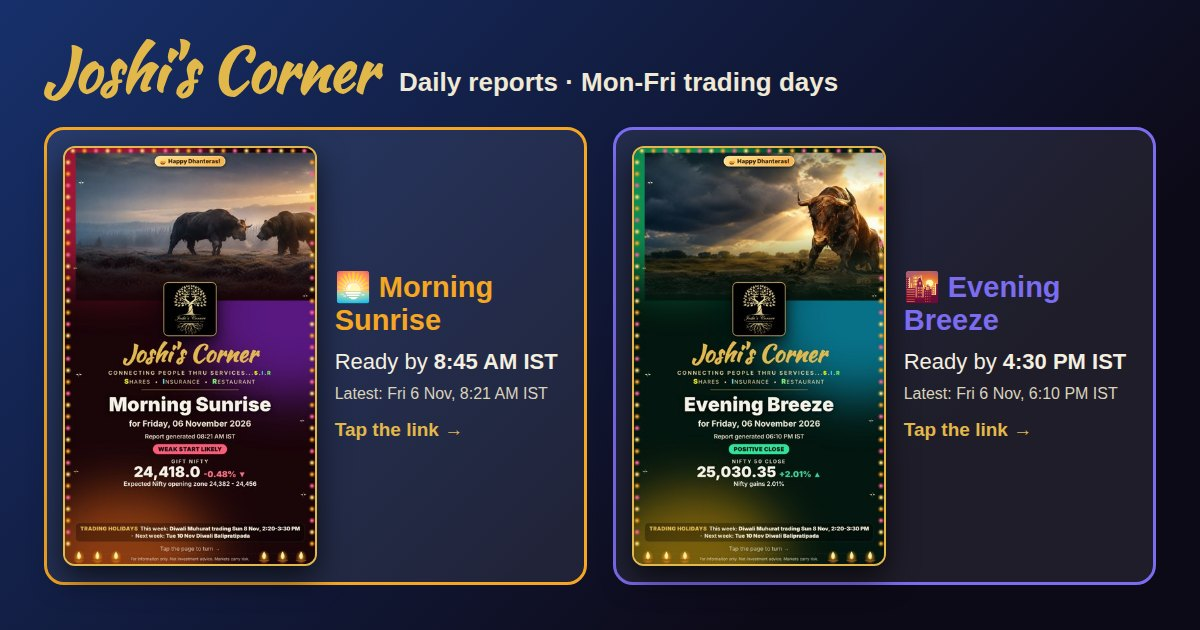
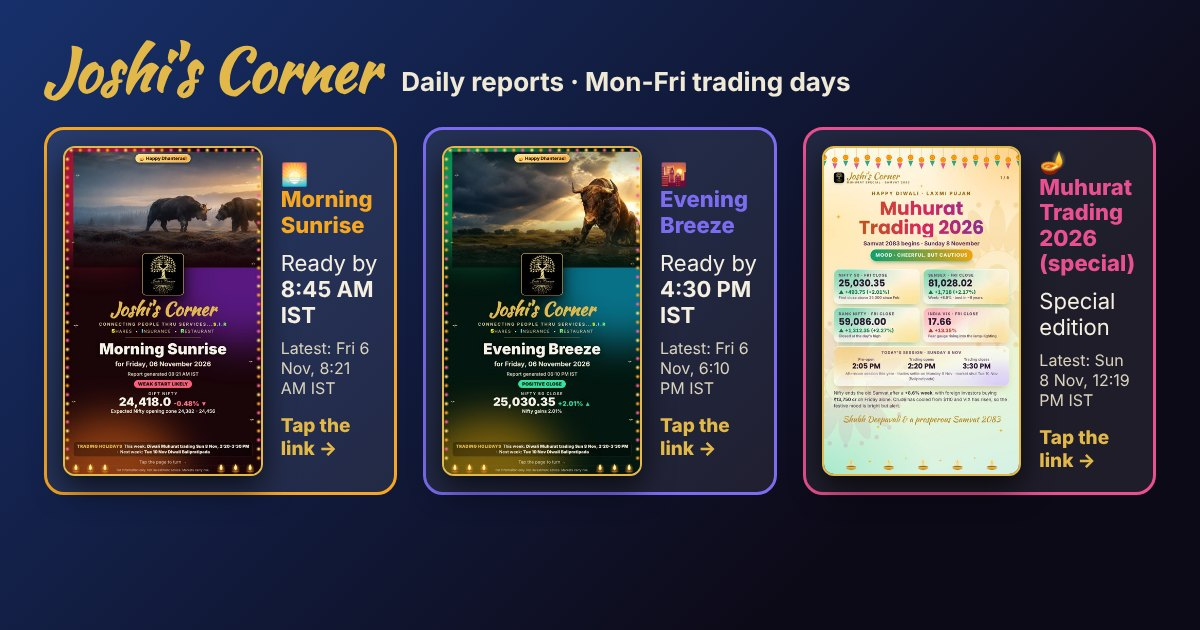
Muhurat special added to the combined reports link/card; backfill workflow for Hindi/Bengali on published reports
Claude-Session: https://claude.ai/code/session_018ys3NapdTQzAaWigZxvdva

diff --git a/updates/index.html b/updates/index.html
@@ -9,7 +9,7 @@
 .t h2{margin:0 0 6px;font-size:21px;color:var(--a)}.t p{margin:4px 0;font-size:14px}.t .g{color:#cfc8b2;font-size:12.5px}.btn{display:inline-block;margin-top:8px;background:var(--a);color:#fff;font-weight:800;padding:7px 14px;border-radius:20px;font-size:13.5px}
 .m{margin-top:18px;background:#00000040;border-radius:14px;padding:14px;white-space:pre-wrap;font-size:13px;line-height:1.5;color:#e8e2cf}.act{display:flex;gap:10px;flex-wrap:wrap;margin-top:12px}
 .act a,.act button{border:0;border-radius:22px;padding:10px 18px;font-weight:800;font-size:14px;cursor:pointer;text-decoration:none;color:#fff}.wa{background:#25D366}.cp{background:#E2B84A;color:#2a1c00!important}</style></head><body><div class="w">
-<div class="b">Joshi's Corner</div><div class="sub">Daily reports &middot; Mon-Fri, NSE trading days</div><div class="grid"><a class='t' href='https://ssjs1mu.github.io/jc-stock-analyst/morning/' style='--a:#F5A623'><img src='sunrise.jpg' alt='Morning Sunrise'><div class='tx'><h2>🌅 Morning Sunrise</h2><p>Ready by <b>8:45 AM IST</b> every trading day</p><p class='g'>Latest: Fri 6 Nov, 8:21 AM IST</p><span class='btn'>Open the report &rarr;</span></div></a><a class='t' href='https://ssjs1mu.github.io/jc-stock-analyst/evening/' style='--a:#7C6CF0'><img src='breeze.jpg' alt='Evening Breeze'><div class='tx'><h2>🌇 Evening Breeze</h2><p>Ready by <b>4:30 PM IST</b> every trading day</p><p class='g'>Latest: Fri 6 Nov, 6:10 PM IST</p><span class='btn'>Open the report &rarr;</span></div></a></div>
+<div class="b">Joshi's Corner</div><div class="sub">Daily reports &middot; Mon-Fri, NSE trading days</div><div class="grid"><a class='t' href='https://ssjs1mu.github.io/jc-stock-analyst/morning/' style='--a:#F5A623'><img src='sunrise.jpg' alt='Morning Sunrise'><div class='tx'><h2>🌅 Morning Sunrise</h2><p>Ready by <b>8:45 AM IST</b> every trading day</p><p class='g'>Latest: Fri 6 Nov, 8:21 AM IST <em>(next update on the next trading day)</em></p><span class='btn'>Open the report &rarr;</span></div></a><a class='t' href='https://ssjs1mu.github.io/jc-stock-analyst/evening/' style='--a:#7C6CF0'><img src='breeze.jpg' alt='Evening Breeze'><div class='tx'><h2>🌇 Evening Breeze</h2><p>Ready by <b>4:30 PM IST</b> every trading day</p><p class='g'>Latest: Fri 6 Nov, 6:10 PM IST <em>(next update on the next trading day)</em></p><span class='btn'>Open the report &rarr;</span></div></a><a class='t' href='https://ssjs1mu.github.io/jc-stock-analyst/muhurat/' style='--a:#E8508F'><img src='muhurat.jpg' alt='Muhurat Trading 2026 (special)'><div class='tx'><h2>🪔 Muhurat Trading 2026 (special)</h2><p>Special edition &middot; English / हिन्दी / বাংলা</p><p class='g'>Latest: Sun 8 Nov, 12:19 PM IST</p><span class='btn'>Open the report &rarr;</span></div></a></div>
 <div class="m" id="msg">Joshi&#x27;s Corner - daily reports (Mon-Fri, NSE trading days)
 
 🌅 Morning Sunrise - ready by 8:45 AM IST on every trading day
@@ -20,5 +20,9 @@ Latest: Fri 6 Nov, 8:21 AM IST
 https://ssjs1mu.github.io/jc-stock-analyst/evening/
 Latest: Fri 6 Nov, 6:10 PM IST
 
-Both reports in one place: https://tinyurl.com/JoshisCorner-Reports</div><div class="act"><a class="wa" href="https://wa.me/?text=Joshi%27s%20Corner%20-%20daily%20reports%20%28Mon-Fri%2C%20NSE%20trading%20days%29%0A%0A%F0%9F%8C%85%20Morning%20Sunrise%20-%20ready%20by%208%3A45%20AM%20IST%20on%20every%20trading%20day%0Ahttps%3A//ssjs1mu.github.io/jc-stock-analyst/morning/%0ALatest%3A%20Fri%206%20Nov%2C%208%3A21%20AM%20IST%0A%0A%F0%9F%8C%87%20Evening%20Breeze%20-%20ready%20by%204%3A30%20PM%20IST%20on%20every%20trading%20day%0Ahttps%3A//ssjs1mu.github.io/jc-stock-analyst/evening/%0ALatest%3A%20Fri%206%20Nov%2C%206%3A10%20PM%20IST%0A%0ABoth%20reports%20in%20one%20place%3A%20https%3A//tinyurl.com/JoshisCorner-Reports" target="_blank" rel="noopener">Share on WhatsApp</a><button class="cp" onclick="navigator.clipboard.writeText(document.getElementById('msg').innerText).then(function(){this.textContent='Copied'}.bind(this))">Copy message</button></div>
-<p class="sub" style="margin-top:18px;font-size:12.5px">Updated Fri 6 Nov, 6:10 PM IST. Not investment advice.</p></div></body></html>
+🪔 Muhurat Trading 2026 (special) - special edition, English / Hindi / Bengali
+https://ssjs1mu.github.io/jc-stock-analyst/muhurat/
+Published: Sun 8 Nov, 12:19 PM IST
+
+All reports in one place: https://tinyurl.com/JoshisCorner-Reports</div><div class="act"><a class="wa" href="https://wa.me/?text=Joshi%27s%20Corner%20-%20daily%20reports%20%28Mon-Fri%2C%20NSE%20trading%20days%29%0A%0A%F0%9F%8C%85%20Morning%20Sunrise%20-%20ready%20by%208%3A45%20AM%20IST%20on%20every%20trading%20day%0Ahttps%3A//ssjs1mu.github.io/jc-stock-analyst/morning/%0ALatest%3A%20Fri%206%20Nov%2C%208%3A21%20AM%20IST%0A%0A%F0%9F%8C%87%20Evening%20Breeze%20-%20ready%20by%204%3A30%20PM%20IST%20on%20every%20trading%20day%0Ahttps%3A//ssjs1mu.github.io/jc-stock-analyst/evening/%0ALatest%3A%20Fri%206%20Nov%2C%206%3A10%20PM%20IST%0A%0A%F0%9F%AA%94%20Muhurat%20Trading%202026%20%28special%29%20-%20special%20edition%2C%20English%20/%20Hindi%20/%20Bengali%0Ahttps%3A//ssjs1mu.github.io/jc-stock-analyst/muhurat/%0APublished%3A%20Sun%208%20Nov%2C%2012%3A19%20PM%20IST%0A%0AAll%20reports%20in%20one%20place%3A%20https%3A//tinyurl.com/JoshisCorner-Reports" target="_blank" rel="noopener">Share on WhatsApp</a><button class="cp" onclick="navigator.clipboard.writeText(document.getElementById('msg').innerText).then(function(){this.textContent='Copied'}.bind(this))">Copy message</button></div>
+<p class="sub" style="margin-top:18px;font-size:12.5px">Updated Sun 8 Nov, 12:35 PM IST. Not investment advice.</p></div></body></html>

diff --git a/pipeline/make_updates.py b/pipeline/make_updates.py
@@ -4,7 +4,7 @@ Builds updates/index.html (page with both thumbnails, links, update times, Whats
 updates/og.jpg (one preview card showing both thumbnails - what WhatsApp/Telegram show for the link),
 updates/sunrise.jpg + breeze.jpg thumbnails and updates/message.txt (the plain-text message).
 Run automatically by publish.py after Morning Sunrise or Evening Breeze is published; or by hand: python3 pipeline/make_updates.py"""
-import html, json, os, sys, urllib.parse
+import html, json, os, re, sys, urllib.parse
 from datetime import datetime, timezone, timedelta
 
 ROOT = os.path.dirname(os.path.dirname(os.path.abspath(__file__)))
@@ -17,6 +17,7 @@ IST = timezone(timedelta(hours=5, minutes=30))
 REP = [  # key, schedule id, name, icon, url folder, due text, accent
     ("sunrise", "morning-pulse", "Morning Sunrise", "\U0001F305", "morning/", "8:45 AM", "#F5A623"),
     ("breeze", "evening-breeze", "Evening Breeze", "\U0001F307", "evening/", "4:30 PM", "#7C6CF0"),
+    ("muhurat", "muhurat-special", "Muhurat Trading 2026 (special)", "\U0001FA94", "muhurat/", "", "#E8508F"),   # one-off special edition
 ]
 
 
@@ -27,7 +28,7 @@ def latest(sid):
         return None
     for r in runs:
         if r.get("status") == "ok":
-            pngs = sorted(f["path"] for f in r["files"] if "_Mobile_" in f["name"] and f["type"] == "png")
+            pngs = sorted(f["path"] for f in r["files"] if "_Mobile_" in f["name"] and f["type"] == "png" and not re.search(r"_Mobile_(HI|BN)_", f["name"]))
             return {"date": r["date"], "gen": datetime.fromisoformat(r["generated_at"]), "page1": pngs[0] if pngs else None}
     return None
 
@@ -60,24 +61,27 @@ def build():
         thumb(L["page1"], os.path.join(out, key + ".jpg"))
         fresh = L["date"] == now.strftime("%Y-%m-%d")
         items.append(dict(key=key, name=name, icon=icon, url=BASE + folder, due=due, acc=acc, gen=L["gen"], date=L["date"], fresh=fresh))
-        lines.append("%s %s - ready by %s IST on every trading day\n%s\nLatest: %s" % (icon, name, due, BASE + folder, fmt_gen(L["gen"])))
+        if due:
+            lines.append("%s %s - ready by %s IST on every trading day\n%s\nLatest: %s" % (icon, name, due, BASE + folder, fmt_gen(L["gen"])))
+        else:
+            lines.append("%s %s - special edition, English / Hindi / Bengali\n%s\nPublished: %s" % (icon, name, BASE + folder, fmt_gen(L["gen"])))
     if not items:
         return None
     msg = ("Joshi's Corner - daily reports (Mon-Fri, NSE trading days)\n\n" + "\n\n".join(lines) +
-           "\n\nBoth reports in one place: " + SHORT)
+           "\n\nAll reports in one place: " + SHORT)
     open(os.path.join(out, "message.txt"), "w").write(msg)
     # ---- preview card 1200x630 with both thumbnails ----
     cards = "".join(
-        "<div class='c' style='border-color:%s'><img src='%s'><div><div class='n' style='color:%s'>%s %s</div><div class='d'>Ready by <b>%s IST</b></div>"
+        "<div class='c' style='border-color:%s'><img src='%s'><div><div class='n' style='color:%s'>%s %s</div><div class='d'>%s</div>"
         "<div class='g'>Latest: %s</div><div class='go'>Tap the link &rarr;</div></div></div>"
-        % (i["acc"], _b64(os.path.join(out, i["key"] + ".jpg")), i["acc"], i["icon"], html.escape(i["name"]), i["due"], html.escape(fmt_gen(i["gen"])))
+        % (i["acc"], _b64(os.path.join(out, i["key"] + ".jpg")), i["acc"], i["icon"], html.escape(i["name"]), ("Ready by <b>%s IST</b>" % i["due"]) if i["due"] else "Special edition", html.escape(fmt_gen(i["gen"])))
         for i in items)
     page = ("<html><head><style>%s*{margin:0;box-sizing:border-box}body{width:1200px;height:630px;background:linear-gradient(135deg,#17306b,#0d0a18 75%%);font-family:Inter,Arial,sans-serif;color:#f4efe0;padding:26px 44px;overflow:hidden}"
             ".top{display:flex;align-items:baseline;gap:22px}.b{font-family:%s;font-size:60px;font-weight:700;color:#E2B84A}.s{font-size:26px;font-weight:700;color:#efe9d6}"
             ".row{display:flex;gap:26px;margin-top:14px}.c{flex:1;min-width:0;display:flex;gap:18px;align-items:center;background:#ffffff14;border:3px solid;border-radius:20px;padding:16px}"
-            ".c img{height:420px;flex:none;border-radius:12px;border:2px solid #E2B84A;box-shadow:0 12px 30px #000a}.n{font-size:29px;font-weight:800;line-height:1.15}.d{font-size:22px;margin-top:12px}.g{font-size:16px;color:#d9d2bd;margin-top:10px}.go{margin-top:16px;font-size:19px;color:#E2B84A;font-weight:800}"
+            ".c img{height:%%dpx;flex:none;border-radius:12px;border:2px solid #E2B84A;box-shadow:0 12px 30px #000a}.n{font-size:29px;font-weight:800;line-height:1.15}.d{font-size:22px;margin-top:12px}.g{font-size:16px;color:#d9d2bd;margin-top:10px}.go{margin-top:16px;font-size:19px;color:#E2B84A;font-weight:800}"
             "</style></head><body><div class='top'><div class='b'>Joshi's Corner</div><div class='s'>Daily reports &middot; Mon-Fri trading days</div></div><div class='row'>%s</div></body></html>"
-            % (brand.font_css(), brand.SCRIPT_STACK, cards))
+            % (brand.font_css(), brand.SCRIPT_STACK, cards)).replace('.c img{height:%dpx;', '.c img{height:%dpx;' % (420 if len(items) < 3 else 330), 1).replace('.n{font-size:29px', '.n{font-size:%dpx' % (29 if len(items) < 3 else 22), 1)
     from playwright.sync_api import sync_playwright
     tmp = os.path.join(out, "og.png")
     with sync_playwright() as p:
@@ -101,9 +105,9 @@ def build():
     os.remove(tmp)
     # ---- the page ----
     tiles = "".join(
-        "<a class='t' href='%s' style='--a:%s'><img src='%s.jpg' alt='%s'><div class='tx'><h2>%s %s</h2><p>Ready by <b>%s IST</b> every trading day</p><p class='g'>Latest: %s%s</p><span class='btn'>Open the report &rarr;</span></div></a>"
-        % (i["url"], i["acc"], i["key"], html.escape(i["name"]), i["icon"], html.escape(i["name"]), i["due"], html.escape(fmt_gen(i["gen"])),
-           "" if i["fresh"] else " <em>(next update on the next trading day)</em>") for i in items)
+        "<a class='t' href='%s' style='--a:%s'><img src='%s.jpg' alt='%s'><div class='tx'><h2>%s %s</h2><p>%s</p><p class='g'>Latest: %s%s</p><span class='btn'>Open the report &rarr;</span></div></a>"
+        % (i["url"], i["acc"], i["key"], html.escape(i["name"]), i["icon"], html.escape(i["name"]), ("Ready by <b>%s IST</b> every trading day" % i["due"]) if i["due"] else "Special edition &middot; English / हिन्दी / বাংলা", html.escape(fmt_gen(i["gen"])),
+           "" if (i["fresh"] or not i["due"]) else " <em>(next update on the next trading day)</em>") for i in items)
     wa = "https://wa.me/?text=" + urllib.parse.quote(msg)
     title = "Joshi's Corner - Morning Sunrise & Evening Breeze"
     doc = """<!doctype html><html lang="en"><head><meta charset="utf-8"><meta name="viewport" content="width=device-width,initial-scale=1">

diff --git a/pipeline/backfill_lang.py b/pipeline/backfill_lang.py
@@ -1,0 +1,31 @@
+#!/usr/bin/env python3
+"""Add the Hindi + Bengali editions to an already published Morning Sunrise / Evening Breeze (run on the runner:
+the free translators are only reachable there).  python3 pipeline/backfill_lang.py morning-pulse 2026-11-06"""
+import glob, json, os, re, subprocess, sys
+HERE = os.path.dirname(os.path.abspath(__file__)); ROOT = os.path.dirname(HERE)
+sys.path.insert(0, HERE)
+sid, date = sys.argv[1], sys.argv[2]
+stem_js = {"morning-pulse": "JCGG_Morning_Pulse_Infographic_%s.json", "evening-breeze": "JCGG_Evening_Breeze_%s.json"}[sid] % date
+mob = {"morning-pulse": "JCGG_Morning_Pulse_Mobile_%s.png", "evening-breeze": "JCGG_Evening_Breeze_Mobile_%s.png"}[sid] % date
+folder = os.path.join(ROOT, "reports", sid)
+base = os.path.join(folder, mob)
+subprocess.check_call([sys.executable, os.path.join(HERE, "render_booklet.py"), "--config", os.path.join(folder, stem_js), "--out", base, "--langs", "hi,bn"])
+idx_path = os.path.join(folder, "index.json"); idx = json.load(open(idx_path))
+run = next(r for r in idx["runs"] if r["date"] == date and r["status"] == "ok")
+have = {f["name"] for f in run["files"]}
+for f in sorted(glob.glob(os.path.join(folder, "*_Mobile_HI_%s_*.png" % date)) + glob.glob(os.path.join(folder, "*_Mobile_BN_%s_*.png" % date))):
+    n = os.path.basename(f)
+    if n not in have:
+        run["files"].append({"name": n, "path": "reports/%s/%s" % (sid, n), "type": "png", "bytes": os.path.getsize(f)})
+json.dump(idx, open(idx_path, "w"), indent=1)
+files = [f["path"] for f in run["files"] if f["type"] == "png" and "_Mobile_" in f["name"]]
+en = sorted(p for p in files if not re.search(r"_Mobile_(HI|BN)_", p))
+lp = {L.lower(): sorted(p for p in files if "_Mobile_%s_" % L in p) for L in ("HI", "BN")}
+cj = json.load(open(os.path.join(folder, stem_js)))
+import make_book, make_updates
+make_book.build(date, en, cj.get("headline", ""), (cj.get("mood") or {}).get("key", "neutral"), kind="evening" if sid == "evening-breeze" else "morning", lang_pages=lp)
+try:
+    make_updates.build()
+except Exception as ex:
+    print("updates card not built:", ex)
+print("done", sid, date, len(en), {k: len(v) for k, v in lp.items()})
